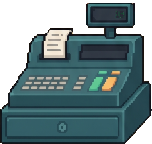
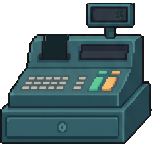
Print curved register paper, space out the receipt, and bring payment controls up sooner
- Separate the paper from the register art, so it slides out of the slot with its curl
- Show only a short tip until payment, then print in step with the on-screen receipt
- Widen receipt line spacing, and shrink the highlighted amount and its bar
- Slide the drawer and keypad in as the receipt starts, with taps enabled once the amount shows

Changed region(s): [[0.2895, 0.1944, 0.5, 0.4167]]

diff --git a/src/scenes/RegisterScene.ts b/src/scenes/RegisterScene.ts
@@ -3,12 +3,12 @@ import { textWidth } from '../art/fontMetrics';
 import { TERMINAL_DIGITS, drawerMoneySizes } from '../art/textures';
 import { sfx } from '../audio';
 import { getProduct } from '../data/products';
-import { L, PAYMENT_PANEL_H, bubbleW, bubbleX, receiptHeight } from '../layout';
+import { L, PAYMENT_PANEL_H, RECEIPT_LINE_H, bubbleW, bubbleX, receiptHeight } from '../layout';
 import { checkCard, checkChange, completeSale } from '../logic/checkout';
 import { DENOMINATIONS, formatCents } from '../logic/money';
 import { settleService } from '../logic/reputation';
 import { session } from '../session';
-import { BUTTONS, COLOURS, bigLabel, button, drawPaper, label, tinyLabel } from '../ui';
+import { BUTTONS, COLOURS, amountLabel, bigLabel, button, drawPaper, label, tinyLabel } from '../ui';
 
 interface RegisterData {
   items: string[];
@@ -25,14 +25,13 @@ const SUCCESS_INK = 0x0b6b3a;
 const OVER_INK = 0x9a5b00;
 const MAX_RECEIPT_LINES = 4;
 const RECEIPT_MIN_W = 116;
-const HIGHLIGHT_H = 18;
+const HIGHLIGHT_H = 15;
 const HIGHLIGHT_GOLD = 0xffc65c;
 const PRINT_LINE_MS = 70;
-/** The beats of the reveal: the money lands, the receipt fills in, then the controls come up. */
+/** The beats of the reveal: the money lands and the receipt fills in, with the controls up from the start. */
 const BEFORE_TENDER_MS = 250;
 const NEXT_LINE_MS = 300;
-const BEFORE_CONTROLS_MS = 250;
-const SLIDE_MS = 240;
+const SLIDE_MS = 160;
 const PANEL_MESSAGE_MS = 1300;
 const LIFT = 3;
 const FLY_MS = 130;
@@ -57,7 +56,7 @@ export class RegisterScene extends Phaser.Scene {
   private desk: DeskPiece[] = [];
   private entered = 0;
   private finished = false;
-  /** Controls ignore taps until the receipt has finished and they've come up. */
+  /** Controls ignore taps until the receipt has shown the number to work from. */
   private ready = false;
   private controls!: Phaser.GameObjects.Container;
   private panelName = '';
@@ -117,13 +116,14 @@ export class RegisterScene extends Phaser.Scene {
     }
   }
 
-  /** One thing at a time: the items print, the money lands, the number to work from appears, then the controls. */
+  /** The controls come straight up so the screen is never empty. Then the items print, the money lands, and the number to work from appears. */
   private reveal(items: string[], cash: boolean) {
     // Wide enough for the highlighted amount, leaning over the customer's shoulder on narrow screens.
     const w = Math.max(bubbleW(), RECEIPT_MIN_W);
     const x = Math.min(bubbleX(), L.W - 3 - w);
     const y = this.info.receiptTop;
     const lines = items.slice(0, MAX_RECEIPT_LINES);
+    this.tweens.add({ targets: this.controls, y: 0, duration: SLIDE_MS, ease: 'Quad.easeOut' });
     // The till feeds out its paper in step with the receipt on screen.
     const totalSteps = lines.length + (cash ? 3 : 1);
     let stepsDone = 0;
@@ -148,20 +148,20 @@ export class RegisterScene extends Phaser.Scene {
         const fits = textWidth(p.name) + textWidth(price) + 4 <= w - 6;
         sfx.keypad();
         feed();
-        drawPaper(paper, x, y, w, 5 + (i + 1) * 9, false);
-        label(this, x + 3, y + 3 + i * 9, fits ? p.name : p.short, COLOURS.ink);
-        label(this, x + w - 3, y + 3 + i * 9, price, COLOURS.ink, 'right');
+        drawPaper(paper, x, y, w, 5 + (i + 1) * RECEIPT_LINE_H, false);
+        label(this, x + 3, y + 3 + i * RECEIPT_LINE_H, fits ? p.name : p.short, COLOURS.ink);
+        label(this, x + w - 3, y + 3 + i * RECEIPT_LINE_H, price, COLOURS.ink, 'right');
       });
     });
 
-    const ruleY = y + 3 + lines.length * 9;
+    const ruleY = y + 3 + lines.length * RECEIPT_LINE_H;
     const finalHeight = receiptHeight(lines.length, cash);
     let time = lines.length * PRINT_LINE_MS;
 
     if (cash) {
       at(time, () => {
         feed();
-        drawPaper(paper, x, y, w, ruleY - y + 13, false);
+        drawPaper(paper, x, y, w, ruleY - y + 14, false);
         this.add.rectangle(x + 3, ruleY, w - 6, 1, COLOURS.ink).setOrigin(0);
         row(ruleY + 3, 'CASH TOTAL', formatCents(this.total));
       });
@@ -171,16 +171,16 @@ export class RegisterScene extends Phaser.Scene {
       at(time, () => {
         sfx.keypad();
         feed();
-        drawPaper(paper, x, y, w, ruleY - y + 22, false);
-        row(ruleY + 12, 'AMOUNT PAID', formatCents(this.tendered));
+        drawPaper(paper, x, y, w, ruleY - y + 25, false);
+        row(ruleY + 14, 'AMOUNT PAID', formatCents(this.tendered));
       });
       time += NEXT_LINE_MS;
       at(time, () => {
         sfx.coin();
         feed();
         drawPaper(paper, x, y, w, finalHeight, true);
-        this.add.rectangle(x + 3, ruleY + 21, w - 6, 1, COLOURS.ink).setOrigin(0);
-        this.highlightRow(x, ruleY + 23, w, ['CHANGE', 'DUE'], formatCents(this.tendered - this.total));
+        this.add.rectangle(x + 3, ruleY + 25, w - 6, 1, COLOURS.ink).setOrigin(0);
+        this.highlightRow(x, ruleY + 27, w, 'CHANGE DUE', formatCents(this.tendered - this.total));
       });
     } else {
       at(time, () => {
@@ -188,7 +188,7 @@ export class RegisterScene extends Phaser.Scene {
         feed();
         drawPaper(paper, x, y, w, finalHeight, true);
         this.add.rectangle(x + 3, ruleY, w - 6, 1, COLOURS.ink).setOrigin(0);
-        this.highlightRow(x, ruleY + 2, w, ['TOTAL'], formatCents(this.total));
+        this.highlightRow(x, ruleY + 2, w, 'TOTAL', formatCents(this.total));
       });
       time += BEFORE_TENDER_MS;
       at(time, () => {
@@ -198,33 +198,21 @@ export class RegisterScene extends Phaser.Scene {
       time += NEXT_LINE_MS;
     }
 
-    time += BEFORE_CONTROLS_MS;
     at(time, () => {
-      this.tweens.add({
-        targets: this.controls,
-        y: 0,
-        duration: SLIDE_MS,
-        ease: 'Quad.easeOut',
-        onComplete: () => {
-          this.ready = true;
-          session.servicePaused = false;
-        },
-      });
+      this.ready = true;
+      session.servicePaused = false;
     });
   }
 
-  /** The number to focus on: a gold bar across the receipt with the amount at double size. */
-  private highlightRow(x: number, y: number, w: number, names: string[], value: string) {
+  /** The number to focus on: a gold bar across the receipt with the amount a little larger. */
+  private highlightRow(x: number, y: number, w: number, name: string, value: string) {
     const barW = w - 4;
     const bar = this.add.container(x + 2 + barW / 2, y + HIGHLIGHT_H / 2);
     const left = -barW / 2;
     bar.add(this.add.rectangle(left, -HIGHLIGHT_H / 2, barW, HIGHLIGHT_H, HIGHLIGHT_GOLD).setOrigin(0));
-    names.forEach((name, i) => {
-      const nameY = names.length === 1 ? -4 : -8 + i * 8;
-      bar.add(label(this, left + 2, nameY, name, COLOURS.ink));
-    });
-    bar.add(bigLabel(this, barW / 2 - 2, -7, value, COLOURS.ink, 'right'));
-    bar.setScale(1.25);
+    bar.add(label(this, left + 2, -3, name, COLOURS.ink));
+    bar.add(amountLabel(this, barW / 2 - 2, -6, value, COLOURS.ink, 'right'));
+    bar.setScale(1.05);
     this.tweens.add({ targets: bar, scale: 1, duration: 200, ease: 'Back.easeOut' });
   }
 

diff --git a/src/scenes/ShackScene.ts b/src/scenes/ShackScene.ts
@@ -62,12 +62,14 @@ const REGISTER_RIGHT = 78;
 const REGISTER_ART_H = 72;
 const DISPLAY_X = 38;
 const DISPLAY_Y = 0;
-const PAPER_X = 20;
-const PAPER_W = 16;
-const PAPER_SLOT_Y = 28;
-/** The paper already sticking out of the till, and how much more a whole receipt feeds out. */
-const PAPER_RESTING_H = 14;
-const PAPER_FEED_H = 20;
+const PAPER_X = 22;
+const PAPER_TOP = 14;
+/** How much paper is out of the till: a little by default, and all of it once a receipt has printed. */
+const PAPER_FULL_H = 15;
+const PAPER_SHORT_H = 5;
+/** The paper leans over as it comes out, so its tip stays in the chute while it's short. */
+const PAPER_LEAN = 0.4;
+const PAPER_STEP_MS = 70;
 const BANNER_BG = 0x1b1d28;
 const DOORS_SHUT_DEPTH = 3;
 /** Once open, the doors stand behind the customers. */
@@ -155,7 +157,9 @@ export class ShackScene extends Phaser.Scene {
   private closedSign!: Phaser.GameObjects.BitmapText;
   private doorHint!: Phaser.GameObjects.BitmapText;
   private registerText!: Phaser.GameObjects.BitmapText;
-  private printedPaper!: Phaser.GameObjects.Graphics;
+  private paper!: Phaser.GameObjects.Image;
+  private paperOut = PAPER_SHORT_H;
+  private paperFeed: Phaser.Tweens.Tween | null = null;
   private portrait!: Phaser.GameObjects.Image;
   private bubble!: Phaser.GameObjects.Graphics;
   private bubbleTail!: Phaser.GameObjects.Image;
@@ -249,7 +253,8 @@ export class ShackScene extends Phaser.Scene {
     const registerTop = standBottom - REGISTER_ART_H;
     this.add.image(1 + DISPLAY_X, registerTop + DISPLAY_Y, 'register_display').setOrigin(0).setScale(0.5).setDepth(4.52);
     this.registerText = tinyLabel(this, 1 + DISPLAY_X + REGISTER_DISPLAY_W - 3, registerTop + DISPLAY_Y + Math.floor((REGISTER_DISPLAY_H - 7) / 2), '$0.00', REGISTER_GREEN, 'right').setDepth(4.6);
-    this.printedPaper = this.add.graphics({ x: 1 + PAPER_X, y: registerTop + PAPER_SLOT_Y }).setDepth(4.51);
+    this.paper = this.add.image(0, 0, 'register_paper').setOrigin(0).setScale(0.5).setDepth(4.51);
+    this.showPaper(PAPER_SHORT_H);
     const computerX = W - COMPUTER_W - 2;
     const computerY = computerTop();
     this.add.image(computerX, computerY, 'computer').setOrigin(0).setDepth(4.5);
@@ -715,34 +720,40 @@ export class ShackScene extends Phaser.Scene {
     this.registerText.setText(formatCents(saleTotal(session.table, this.current?.paidByCash ?? false)));
   }
 
-  /** Paper feeds out of the till, from none to a whole receipt, in step with the one on screen. */
-  private feedReceipt(fraction: number) {
-    const h = PAPER_RESTING_H + Math.round(PAPER_FEED_H * fraction);
-    const g = this.printedPaper;
-    this.tweens.killTweensOf(g);
-    g.clear().setAlpha(1).setY(this.paperRestY());
-    g.fillStyle(COLOURS.ink).fillRect(0, -h, PAPER_W, h);
-    g.fillStyle(COLOURS.paper).fillRect(1, -h + 1, PAPER_W - 2, h - 1);
-    g.fillStyle(0x9a9486);
-    for (let y = -h + 3; y < -2; y += 3) g.fillRect(3, y, y % 2 === 0 ? PAPER_W - 6 : PAPER_W - 9, 1);
+  /** Only what's come out of the slot shows, so its curled tip is always the first thing out. */
+  private showPaper(out: number) {
+    const shown = Math.round(out * 2) / 2;
+    const hidden = PAPER_FULL_H - shown;
+    this.paperOut = out;
+    this.paper
+      .setPosition(1 + PAPER_X - hidden * PAPER_LEAN, L.counterBottom - 6 - REGISTER_ART_H + PAPER_TOP + hidden)
+      .setCrop(0, 0, this.paper.width, shown * 2);
   }
 
-  private paperRestY() {
-    return L.counterBottom - 6 - REGISTER_ART_H + PAPER_SLOT_Y;
-  }
-
-  /** Torn off and gone once the sale is over or called off. */
-  private tearReceipt() {
-    const g = this.printedPaper;
-    this.tweens.killTweensOf(g);
-    this.tweens.add({
-      targets: g,
-      y: this.paperRestY() - 10,
-      alpha: 0,
-      duration: 320,
-      ease: 'Quad.easeOut',
-      onComplete: () => g.clear().setAlpha(1).setY(this.paperRestY()),
+  private feedPaperTo(out: number, duration: number, delay = 0) {
+    this.paperFeed?.stop();
+    this.paperFeed = this.tweens.addCounter({
+      from: this.paperOut,
+      to: out,
+      duration,
+      delay,
+      onUpdate: (tween) => this.showPaper(tween.getValue() ?? out),
     });
+  }
+
+  /** Paper feeds out of the till in step with the receipt on screen, from a short tip to its full length. */
+  private feedReceipt(fraction: number) {
+    this.feedPaperTo(PAPER_SHORT_H + (PAPER_FULL_H - PAPER_SHORT_H) * fraction, PAPER_STEP_MS);
+  }
+
+  /** Torn off once the sale is over or called off, leaving the tip of the next one. */
+  private tearReceipt() {
+    this.paperFeed?.stop();
+    const torn = this.add.image(this.paper.x, this.paper.y, 'register_paper').setOrigin(0).setScale(0.5).setDepth(4.51)
+      .setCrop(0, 0, this.paper.width, this.paperOut * 2);
+    this.tweens.add({ targets: torn, y: torn.y - 10, alpha: 0, duration: 320, ease: 'Quad.easeOut', onComplete: () => torn.destroy() });
+    this.showPaper(0);
+    this.feedPaperTo(PAPER_SHORT_H, 220, 260);
   }
 
   private clearTable() {

diff --git a/src/art/font.ts b/src/art/font.ts
@@ -1,9 +1,10 @@
 import Phaser from 'phaser';
 import { L } from '../layout';
-import { BIG_STYLE, BIG_TITLE_STYLE, FONT_FAMILY, MAIN_STYLE, TINY_STYLE, TITLE_STYLE, charAdvance, digitInset, fontPx, type TextStyle } from './fontMetrics';
+import { AMOUNT_STYLE, BIG_STYLE, BIG_TITLE_STYLE, FONT_FAMILY, MAIN_STYLE, TINY_STYLE, TITLE_STYLE, charAdvance, digitInset, fontPx, type TextStyle } from './fontMetrics';
 
 export const FONT_KEY = 'text';
 export const TINY_FONT_KEY = 'text_tiny';
+export const AMOUNT_FONT_KEY = 'text_amount';
 export const BIG_FONT_KEY = 'text_big';
 export const TITLE_FONT_KEY = 'text_title';
 export const BIG_TITLE_FONT_KEY = 'text_big_title';
@@ -88,6 +89,7 @@ function buildFont(scene: Phaser.Scene, key: string, style: TextStyle, size: num
 export function createGameFont(scene: Phaser.Scene): void {
   buildFont(scene, FONT_KEY, MAIN_STYLE, TEXT_SIZE);
   buildFont(scene, TINY_FONT_KEY, TINY_STYLE, TEXT_SIZE);
+  buildFont(scene, AMOUNT_FONT_KEY, AMOUNT_STYLE, TEXT_SIZE);
   buildFont(scene, BIG_FONT_KEY, BIG_STYLE, TEXT_SIZE);
   buildFont(scene, TITLE_FONT_KEY, TITLE_STYLE, TEXT_SIZE);
   buildFont(scene, BIG_TITLE_FONT_KEY, BIG_TITLE_STYLE, TEXT_SIZE);

diff --git a/src/ui.ts b/src/ui.ts
@@ -1,5 +1,5 @@
 import Phaser from 'phaser';
-import { BIG_FONT_KEY, BIG_TITLE_FONT_KEY, FONT_KEY, TEXT_SIZE, TINY_FONT_KEY, TITLE_FONT_KEY } from './art/font';
+import { AMOUNT_FONT_KEY, BIG_FONT_KEY, BIG_TITLE_FONT_KEY, FONT_KEY, TEXT_SIZE, TINY_FONT_KEY, TITLE_FONT_KEY } from './art/font';
 import { sfx } from './audio';
 import { ACTION_H, L } from './layout';
 
@@ -39,6 +39,11 @@ export function label(scene: Phaser.Scene, x: number, y: number, text: string, c
 /** The same as label, in the small size. */
 export function tinyLabel(scene: Phaser.Scene, x: number, y: number, text: string, color = COLOURS.white, align: Align = 'left'): Phaser.GameObjects.BitmapText {
   return textIn(TINY_FONT_KEY, scene, x, y, text, color, align);
+}
+
+/** The same as label, a little larger: for the number to work from on a receipt. */
+export function amountLabel(scene: Phaser.Scene, x: number, y: number, text: string, color = COLOURS.white, align: Align = 'left'): Phaser.GameObjects.BitmapText {
+  return textIn(AMOUNT_FONT_KEY, scene, x, y, text, color, align);
 }
 
 /** The same as label, at double size. */

diff --git a/src/layout.ts b/src/layout.ts
@@ -108,8 +108,10 @@ export const bubbleX = () => portraitX() + 27;
 export const bubbleY = () => Math.max(L.windowY + 8, L.counterTop - 88);
 export const bubbleW = () => Math.min(130, L.W - bubbleX() - 3);
 
-/** Height of a printed receipt with this many item lines. Its last row is highlighted, and cash adds Amount Paid. */
-export const receiptHeight = (lines: number, cash: boolean) => 26 + lines * 9 + (cash ? 22 : 0);
+/** Distance between lines on a printed receipt, the same as on the customer's order. */
+export const RECEIPT_LINE_H = 11;
+/** Height of a printed receipt with this many item lines. Its last row is highlighted, and cash adds its total and Amount Paid. */
+export const receiptHeight = (lines: number, cash: boolean) => 23 + lines * RECEIPT_LINE_H + (cash ? 25 : 0);
 
 /** Height of the buttons below the cash drawer. */
 export const ACTION_H = 36;

diff --git a/src/art/fontMetrics.ts b/src/art/fontMetrics.ts
@@ -162,6 +162,7 @@ export interface TextStyle {
 export const MAIN_STYLE: TextStyle = { weight: REGULAR_WEIGHT, capPx: 7, baseline: 7.5, height: 9, lineHeight: 10, tracking: 0 };
 export const TITLE_STYLE: TextStyle = { ...MAIN_STYLE, weight: BOLD_WEIGHT };
 export const TINY_STYLE: TextStyle = { weight: REGULAR_WEIGHT, capPx: 5, baseline: 5.5, height: 6.5, lineHeight: 7, tracking: 0.5 };
+export const AMOUNT_STYLE: TextStyle = { weight: REGULAR_WEIGHT, capPx: 10, baseline: 10.7, height: 13, lineHeight: 14, tracking: 0 };
 export const BIG_STYLE: TextStyle = { weight: REGULAR_WEIGHT, capPx: 14, baseline: 15, height: 18, lineHeight: 20, tracking: 0 };
 export const BIG_TITLE_STYLE: TextStyle = { ...BIG_STYLE, weight: BOLD_WEIGHT };
 

diff --git a/src/scenes/BootScene.ts b/src/scenes/BootScene.ts
@@ -9,7 +9,7 @@ export class BootScene extends Phaser.Scene {
 
   preload() {
     for (const scene of ['beach', 'beach_dusk', 'beach_night']) this.load.image(scene, `${scene}.png`);
-    for (const art of ['register', 'sign', 'sign_star_on', 'sign_star_off', 'choco_group', 'item_soda', 'item_chips', 'item_choco', 'item_noodle']) {
+    for (const art of ['register', 'register_paper', 'sign', 'sign_star_on', 'sign_star_off', 'choco_group', 'item_soda', 'item_chips', 'item_choco', 'item_noodle']) {
       this.load.image(art, `shop/${art}.png`);
     }
     for (let i = 0; i < CUSTOMER_LOOKS; i++) this.load.image(`cust_${i}`, `customers/c${i}.png`);
